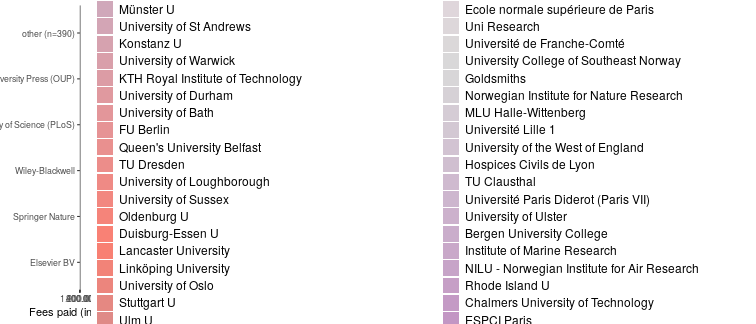
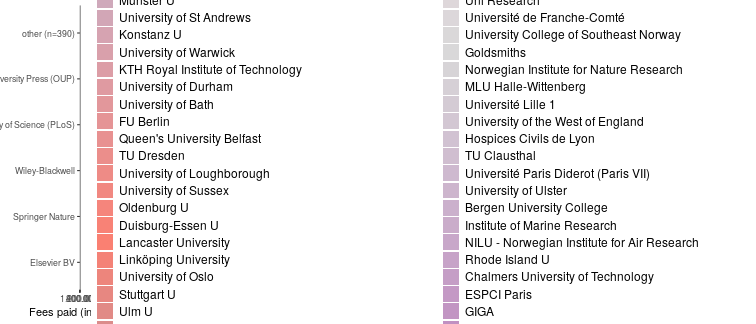
post: th wildau joins openapc

Changed region(s): [[0.578, 0.0, 0.9431, 1.0], [0.1217, 0.0, 0.3955, 1.0]]

diff --git a/about.md b/about.md
@@ -33,6 +33,7 @@ So far, the following German universities have agreed to share information on pa
 - [KIT Karlsruhe](http://www.bibliothek.kit.edu/cms/kit-publikationsfonds.php)
 - [Osnabrück University](https://www.ub.uni-osnabrueck.de/publizieren_archivieren/open_access/publikationsfonds.html)
 - [Ruhr Universität Bochum](http://www.ruhr-uni-bochum.de/oa/)
+- [Technische Hochschule Wildau](https://www.th-wildau.de/hochschule/zentrale-einrichtungen/hochschulbibliothek/open-access-und-publikationsdienste/publikationsfonds/)
 - [Technische Universität Berlin](http://www.ub.tu-berlin.de/publikationsfonds/)
 - [Technische Universität Braunschweig](https://ub.tu-braunschweig.de/publikationsfonds/)
 - [Technische Universität Chemnitz](https://www.tu-chemnitz.de/ub/publizieren/openaccess/index.html.en)
@@ -299,13 +300,13 @@ Jisc Collections released data on APC payments made by UK higher education insti
 
 Information on both open access journal articles and open access publication of articles in toll-access journals ("hybrid") are provided.
 
-In total,  142 400 228 € for  72 083 articles were paid by the participating unviversities. Average  fee is 1 975.5 € and the median 1 785 €.
+In total,  142 404 122 € for  72 087 articles were paid by the participating unviversities. Average  fee is 1 975.4 € and the median 1 785 €.
 
 ### Open Access Journals
 
 
 
-At the moment, the dataset releases information on 40 407 articles in open access journals which charge publication fees. Total expenditure amounts to  62 929 620 €. Average  fee is 1 557.4 € and the median 1 460 €.
+At the moment, the dataset releases information on 40 411 articles in open access journals which charge publication fees. Total expenditure amounts to  62 933 514 €. Average  fee is 1 557.3 € and the median 1 460 €.
 
 View dataset on [GitHub](https://github.com/OpenAPC/openapc-de/blob/master/data/apc_de.csv).
 
@@ -439,6 +440,7 @@ View dataset on [GitHub](https://github.com/OpenAPC/openapc-de/blob/master/data/
 |Swansea University                                              |       57|            99,199|         1,740|  1,419|
 |Swedish University of Agricultural Sciences                     |      450|           595,056|         1,322|  1,328|
 |Swiss National Science Foundation (SNSF)                        |      370|           655,441|         1,771|  1,434|
+|TH Wildau                                                       |        4|             3,894|           974|  1,057|
 |The Open University                                             |        8|            16,623|         2,078|  1,856|
 |TIB                                                             |        1|             1,619|         1,619|  1,619|
 |TiHo Hannover                                                   |      137|           194,193|         1,417|  1,416|

diff --git a/_posts/2019-01-11-wildau.md b/_posts/2019-01-11-wildau.md
@@ -1,0 +1,35 @@
+---
+layout:     post
+author:     Christoph Broschinski
+author_lnk: https://github.com/cbroschinski
+title:      TH Wildau joins OpenAPC
+date:       2019-01-11 08:00:00
+summary:    
+categories: [general, openAPC]
+comments: true
+---
+
+
+
+
+We welcome the [Technische Hochschule Wildau](https://www.th-wildau.de/) as new contributing institution!
+
+[Wildau University Library](https://en.th-wildau.de/university/central-facilities/university-library/) is in charge of the [University's Open Access Publishing Fund](https://www.th-wildau.de/hochschule/zentrale-einrichtungen/hochschulbibliothek/open-access-und-publikationsdienste/publikationsfonds/), which is supported under the [DFG's Open Access Publishing Programme](http://www.dfg.de/en/research_funding/programmes/infrastructure/lis/funding_opportunities/open_access/).
+
+Contact Person is [Friederike Borchert](mailto:fborchert@th-wildau.de).
+
+## Cost data
+
+
+
+The initial data set provided by Wildau University Library covers publication fees for 4 articles published in 2018. Total expenditure amounts to 3 894€ and the average fee is 974€.
+
+
+|            | Articles| Fees paid in EURO| Mean Fee paid|
+|:-----------|--------:|-----------------:|-------------:|
+|MDPI AG     |        3|              3453|          1151|
+|Elsevier BV |        1|               442|           442|
+
+###  Average costs per publisher (in EURO)
+
+![plot of chunk box_frankfurt_2019_01_11_publisher_full](/figure/box_frankfurt_2019_01_11_publisher_full-1.png)
